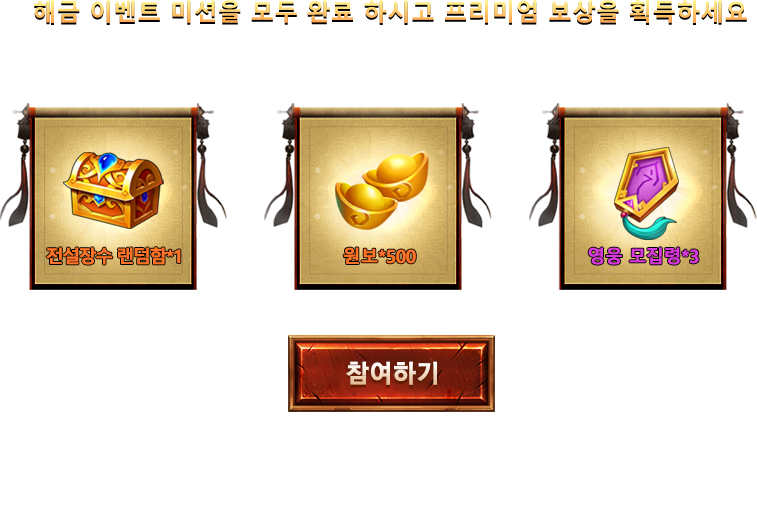
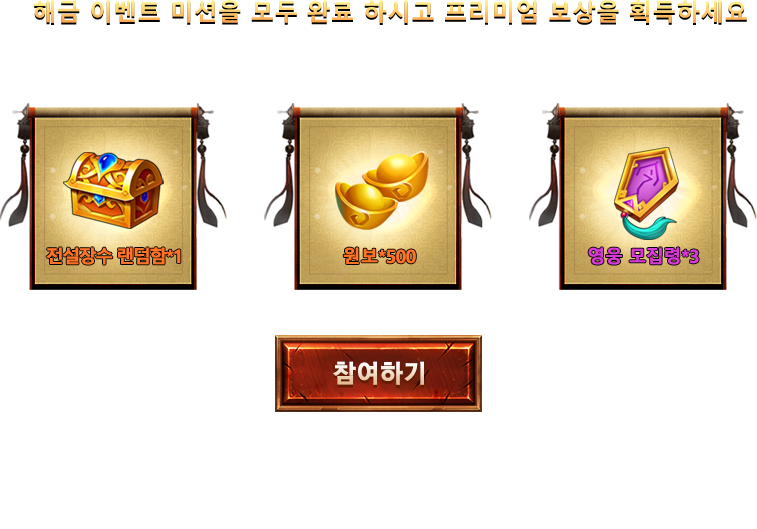
d

Changed region(s): [[0.3646, 0.6352, 0.6684, 0.7864]]

diff --git a/src/css/indexless.less b/src/css/indexless.less
@@ -384,7 +384,7 @@ html {
             height: 0.9rem;
             top: 8rem;
             left: 50%;
-            margin-left: -.9rem;
+            margin-left: -1rem;
             cursor: pointer;
         }
 
